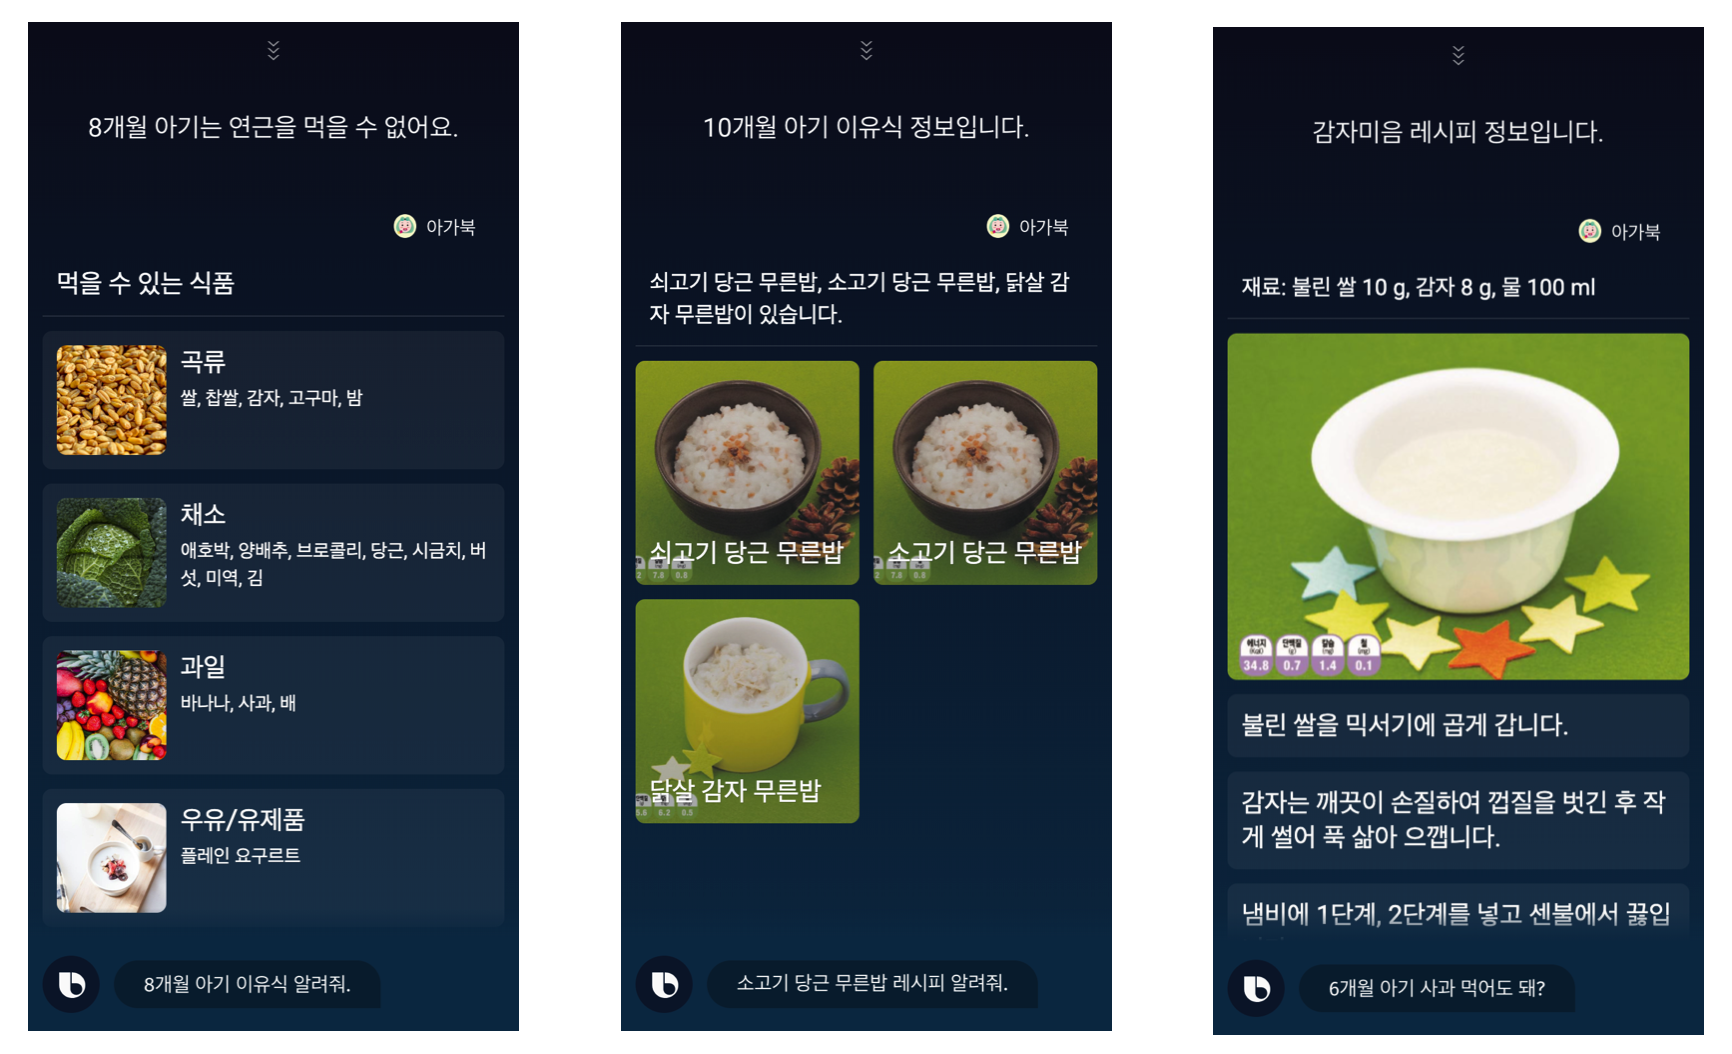
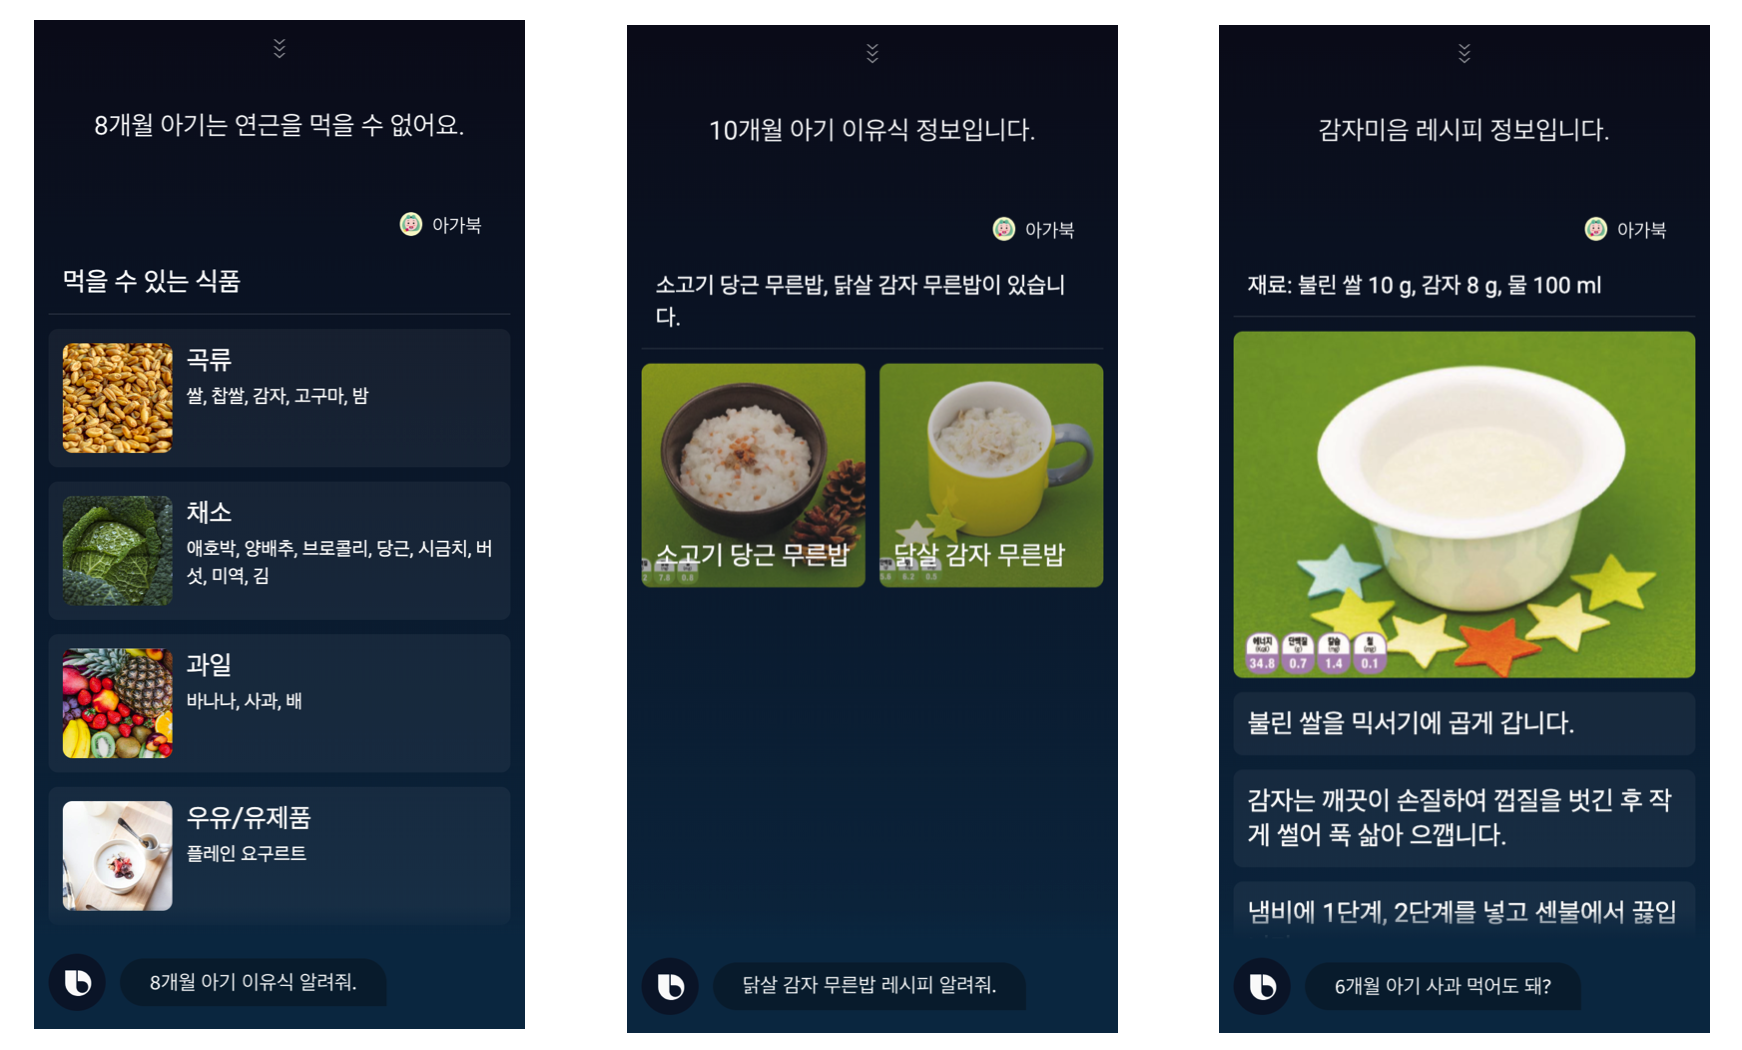
edit

diff --git a/ideans_babybook.agabook/code/data/meals.js b/ideans_babybook.agabook/code/data/meals.js
@@ -38,7 +38,7 @@ module.exports = {
         "우유/유제품": "플레인 요구르트"
         
       },
-      "Foods": "쇠고기 시금치죽,소고기 시금치죽,계란 감자죽,감자 계란죽",
+      "Foods": "소고기 시금치죽,감자 계란죽",
       "img": 'grain.jpg,meat.jpg,vege.jpg,fruits.JPG,yogurt.JPG,fat.jpg,sauce.jpg'
     },
     "9,10,11": {
@@ -61,7 +61,7 @@ module.exports = {
         "유지/당류": "소량의 식물성 기름"
         
       },
-      "Foods": "쇠고기 당근 무른밥,소고기 당근 무른밥,닭살 감자 무른밥",
+      "Foods": "소고기 당근 무른밥,닭살 감자 무른밥",
       "img": 'grain.jpg,meat.jpg,vege.jpg,fruits.JPG,yogurt.JPG,fat.jpg,sauce.jpg'   
     },
     "12,13,14,15": {
@@ -81,7 +81,7 @@ module.exports = {
         "유지/당류": "소량의 식물성 견과류, 꿀",
         
       },
-      "Foods": "쇠고기 미역 진밥,소고기 미역 진밥,흰살 생선 감자진밥,시금치 두부 된장국,두부 시금치 된장국,계란 북엇국",
+      "Foods": "소고기 미역 진밥,흰살 생선 감자진밥,시금치 두부 된장국,계란 북엇국",
       "img": 'grain.jpg,vege.jpg,yogurt.JPG,fat.jpg,nuts.jpg'
     }
   },
